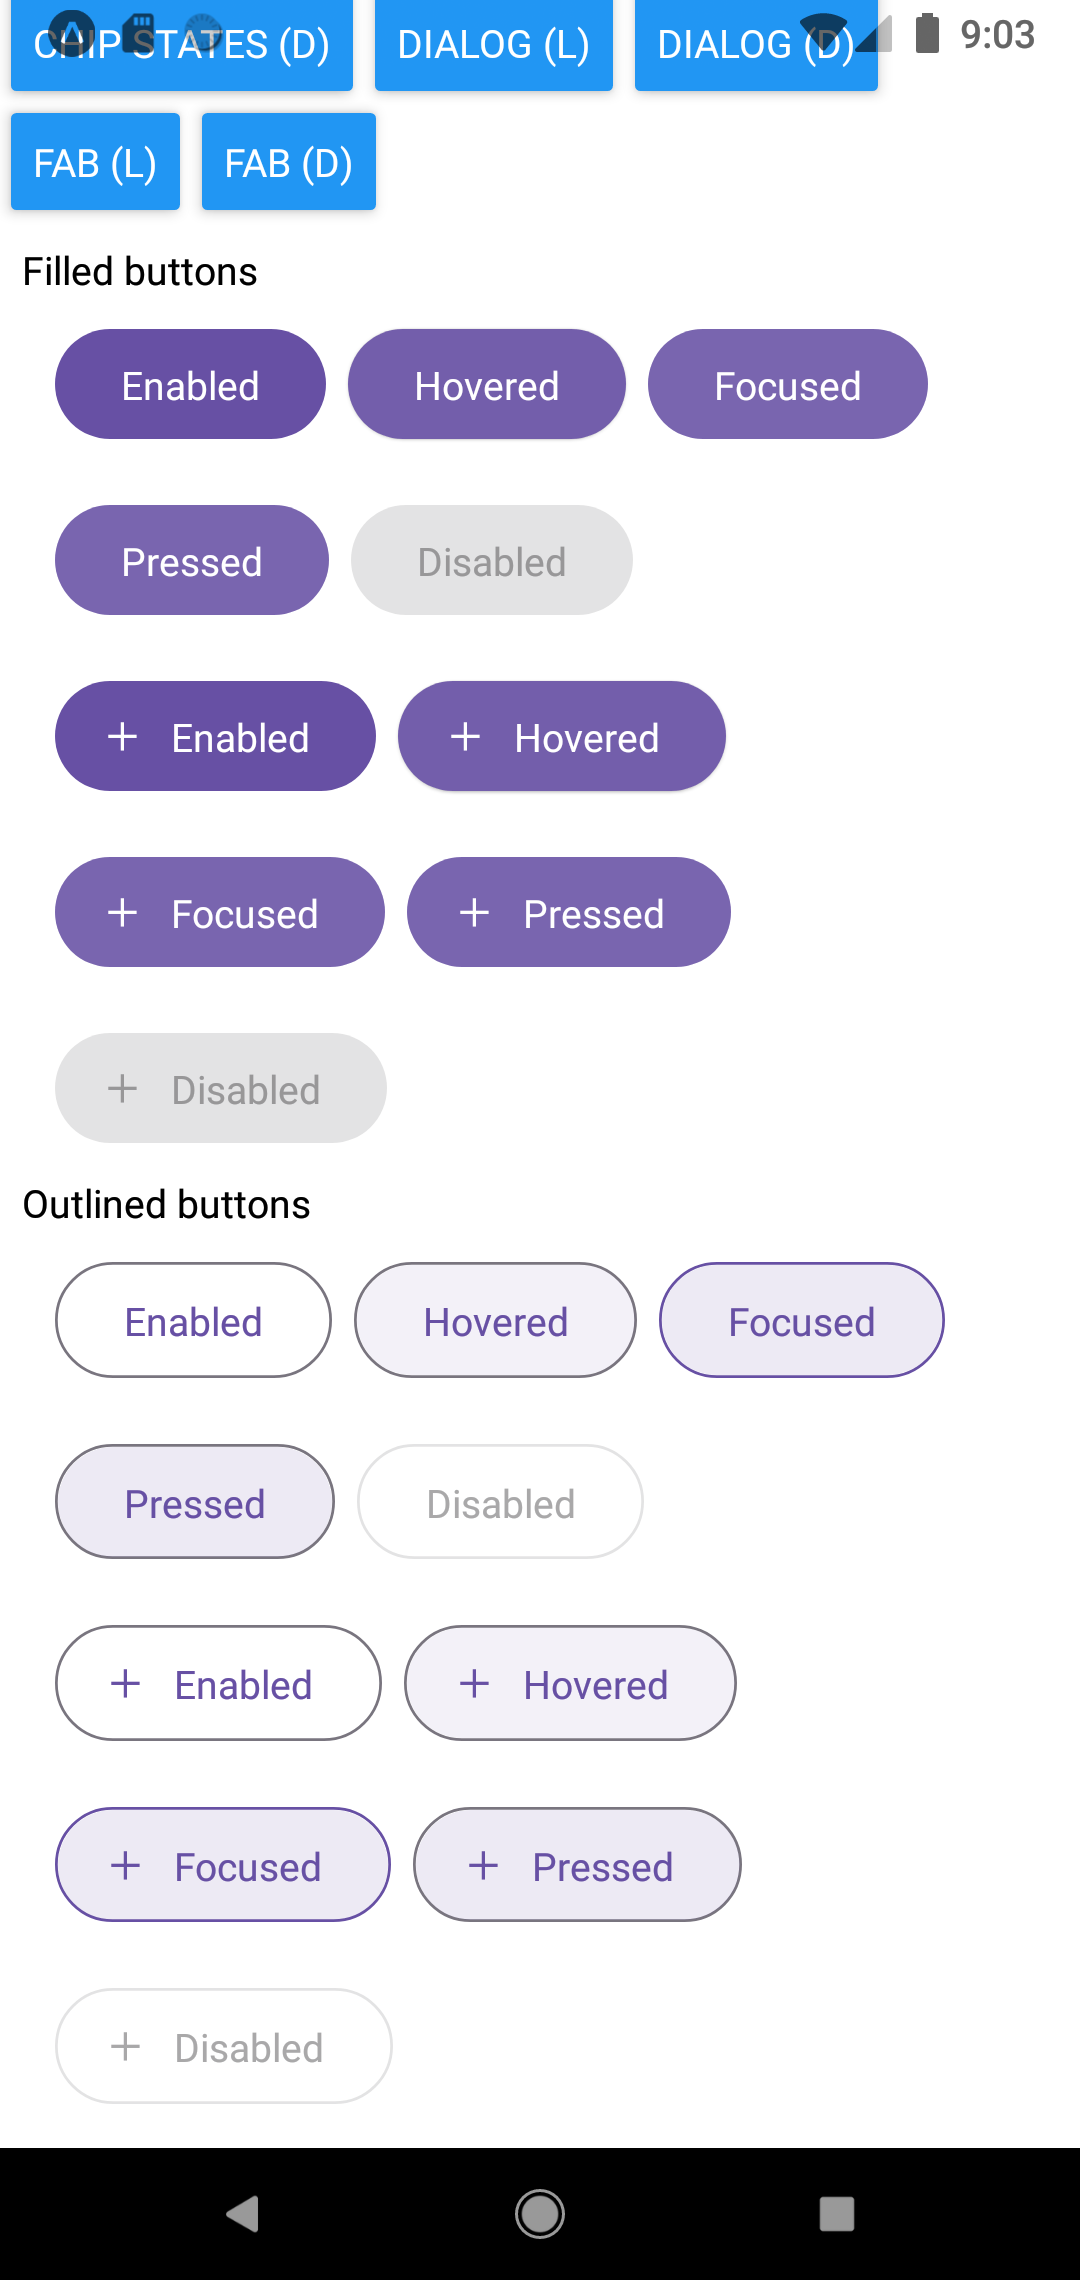
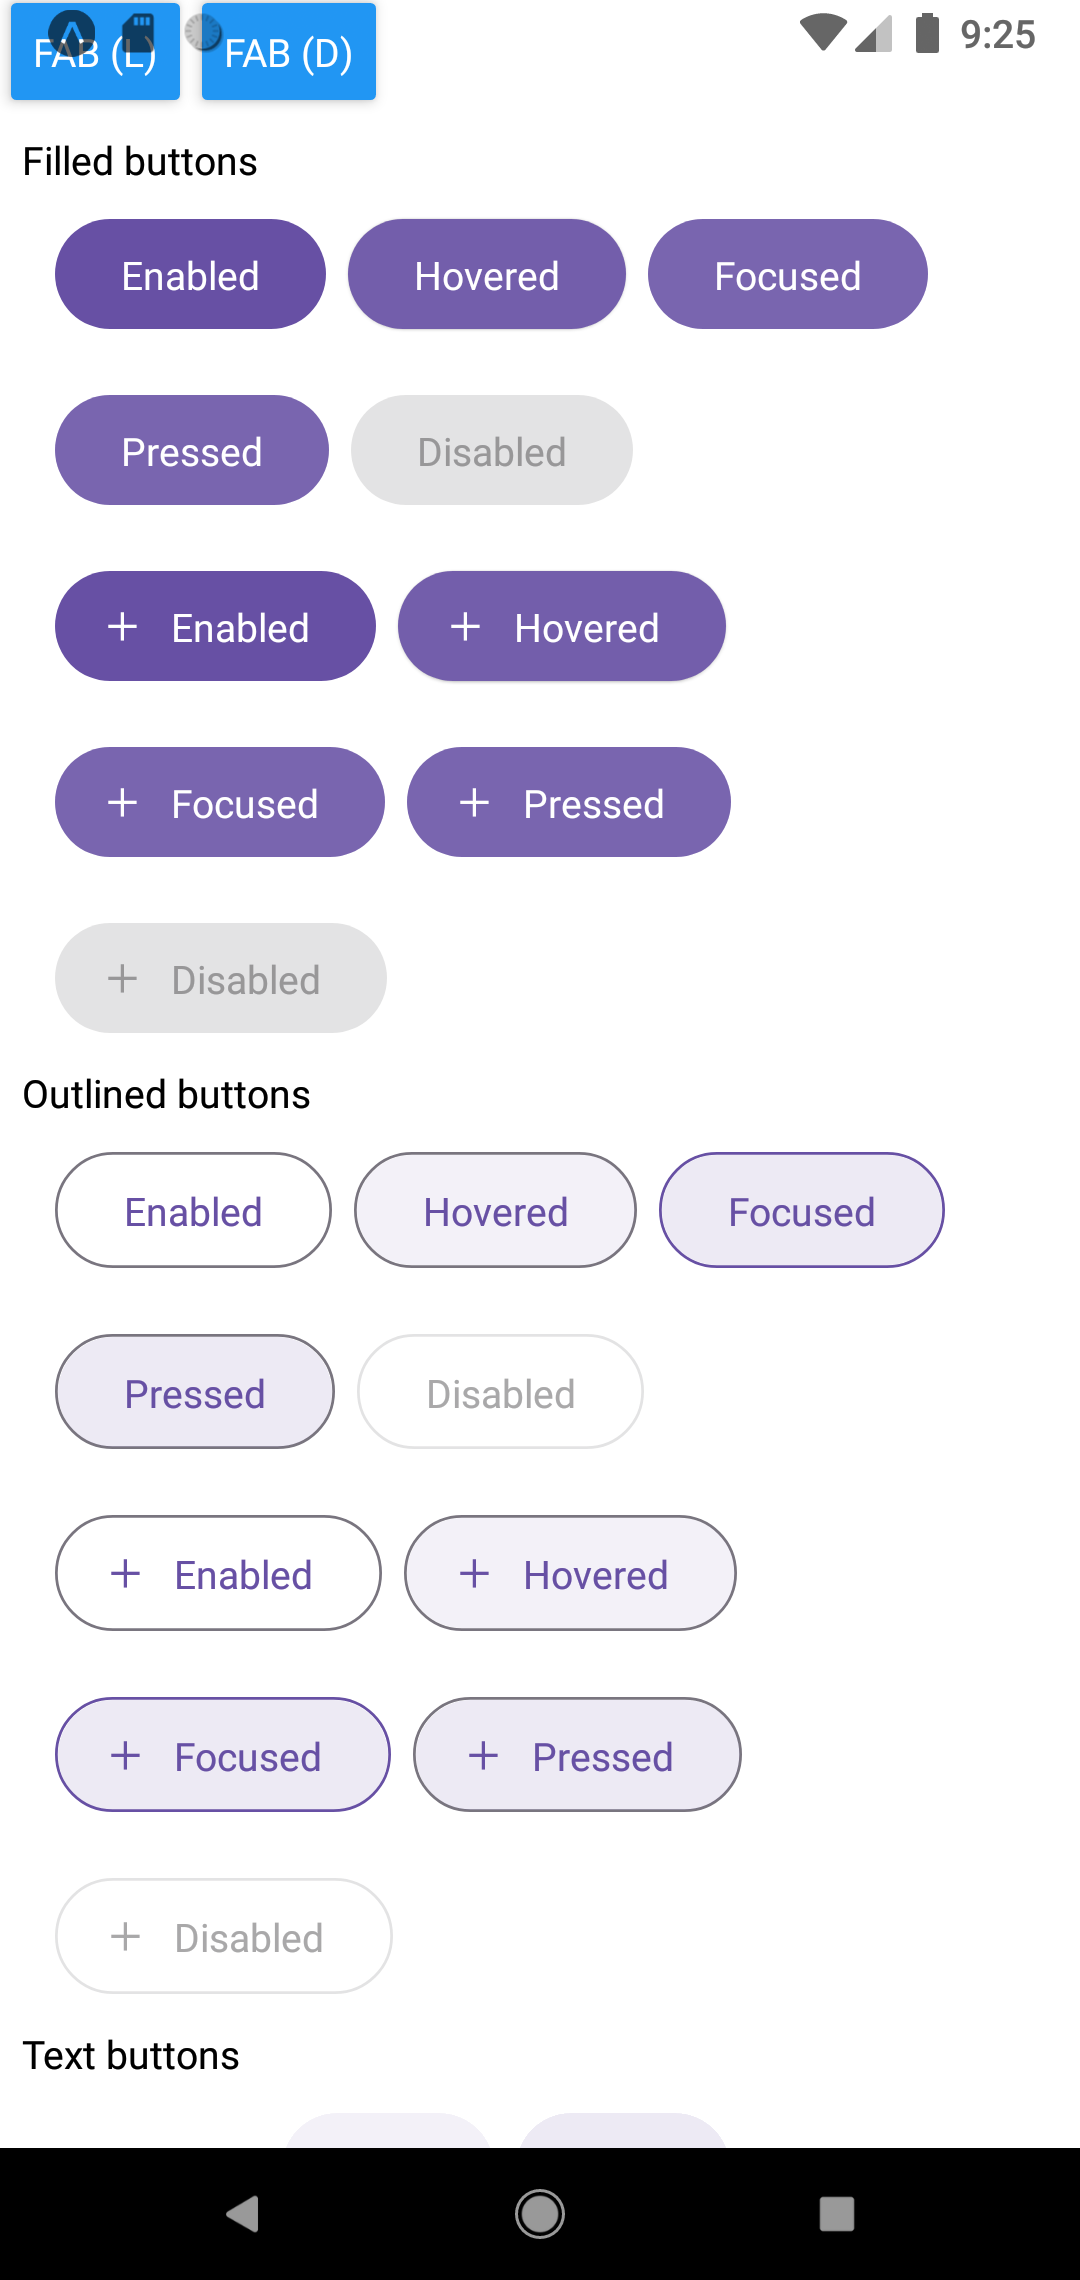
Adding screenshots for buttons

diff --git a/example/App.tsx b/example/App.tsx
@@ -2349,6 +2349,7 @@ const styles = StyleSheet.create({
     alignItems: "flex-start",
     justifyContent: "center",
     padding: 8,
+    marginBottom: 400,
   },
   parentDark: {
     flex: 1,
@@ -2357,6 +2358,7 @@ const styles = StyleSheet.create({
     alignItems: "flex-start",
     justifyContent: "center",
     padding: 8,
+    marginBottom: 400,
   },
   child: {
     flex: 1,

diff --git a/README.md b/README.md
@@ -23,6 +23,9 @@ from [Google Material 3 Design Kit](https://www.figma.com/community/file/1035203
   <img src="screenshots/button-1.png" width="270" height="540" style="margin:4px"/>
   <img src="screenshots/button-2.png" width="270" height="540" style="margin:4px"/>
   <img src="screenshots/button-3.png" width="270" height="540" style="margin:4px"/>
+  <img src="screenshots/button-4.png" width="270" height="540" style="margin:4px"/>
+  <img src="screenshots/button-5.png" width="270" height="540" style="margin:4px"/>
+  <img src="screenshots/button-6.png" width="270" height="540" style="margin:4px"/>
 </p>
 
 #### Cards
